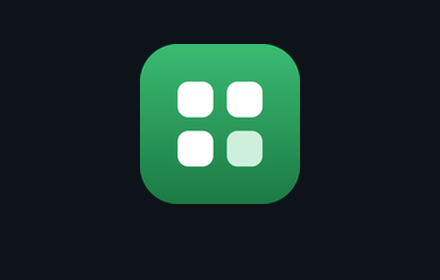
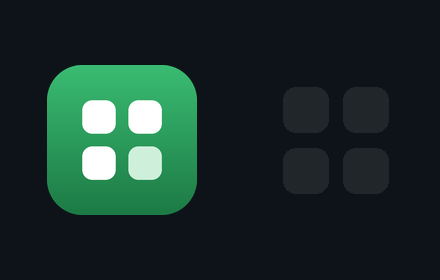
Add Edge store artwork and a Partner Center walkthrough
Edge becomes the primary store: registration is free, while the Chrome Web
Store's one-time fee runs through a payment system with no Georgia option,
so that account cannot be created at all right now.

make_icons.py now also emits the 300x300 extension logo Edge requires per
language and a 1400x560 large promotional tile, and the 440x280 tile is
redrawn to match. store/LISTING.md gains the exact Partner Center field
values — availability, properties, the privacy declarations, the per-language
listing fields, search terms and the certification notes — and README puts
Edge first, with a note on why the Chrome Web Store is blocked.

Changed region(s): [[0.0886, 0.1429, 0.6795, 0.7714]]

diff --git a/tools/make_icons.py b/tools/make_icons.py
@@ -1,7 +1,13 @@
-"""Generate the extension icons (16/32/48/128 px) into icons/.
+"""Generate the extension icons into icons/ and the store artwork into store/.
 
 Usage:  python tools/make_icons.py
 Requires Pillow.  Re-run only when the mark changes; the PNGs are committed.
+
+Store artwork sizes follow the Microsoft Edge Add-ons requirements, which are a
+superset of what the Chrome Web Store asks for:
+  logo-300x300.png     extension logo, 1:1, required (min 128x128)
+  promo-440x280.png    small promotional tile, optional
+  promo-1400x560.png   large promotional tile, optional
 """
 from __future__ import annotations
 
@@ -56,6 +62,37 @@ def make(size: int) -> Image.Image:
     return base.resize((size, size), Image.LANCZOS)
 
 
+BACKDROP = (14, 19, 25, 255)
+
+
+def promo_tile(width: int, height: int, mark_px: int) -> Image.Image:
+    """Backdrop + centred mark, with a faint echo of the popup's link grid."""
+    tile = Image.new("RGBA", (width, height), BACKDROP)
+
+    ghost = Image.new("RGBA", (width, height), (0, 0, 0, 0))
+    draw = ImageDraw.Draw(ghost)
+    cell = mark_px * 0.30
+    gap = cell * 0.34
+    cols, rows = 3, 2
+    block_w = cols * cell + (cols - 1) * gap
+    block_h = rows * cell + (rows - 1) * gap
+    x0 = width / 2 + mark_px * 0.42
+    y0 = (height - block_h) / 2
+    for r in range(rows):
+        for c in range(cols):
+            x = x0 + c * (cell + gap)
+            y = y0 + r * (cell + gap)
+            if x + cell > width - cell * 0.4:
+                continue
+            draw.rounded_rectangle((x, y, x + cell, y + cell), cell * 0.28,
+                                   fill=(255, 255, 255, 20))
+    tile.alpha_composite(ghost)
+
+    mark = make(mark_px)
+    tile.alpha_composite(mark, (int(width / 2 - mark_px * 1.15), int((height - mark_px) / 2)))
+    return tile.convert("RGB")
+
+
 def main() -> None:
     OUT.mkdir(parents=True, exist_ok=True)
     for size in SIZES:
@@ -63,14 +100,18 @@ def main() -> None:
         make(size).save(path, "PNG", optimize=True)
         print(f"wrote {path.relative_to(ROOT)}")
 
-    # A 440x280 small promo tile for the Chrome Web Store listing.
-    promo = Image.new("RGBA", (440, 280), (14, 19, 25, 255))
-    mark = make(128).resize((160, 160), Image.LANCZOS)
-    promo.alpha_composite(mark, (140, 44))
     store = ROOT / "store"
     store.mkdir(parents=True, exist_ok=True)
-    promo.convert("RGB").save(store / "promo-440x280.png", "PNG", optimize=True)
-    print(f"wrote {(store / 'promo-440x280.png').relative_to(ROOT)}")
+
+    make(300).save(store / "logo-300x300.png", "PNG", optimize=True)
+    print(f"wrote {(store / 'logo-300x300.png').relative_to(ROOT)}")
+
+    for name, (w, h, mark_px) in {
+        "promo-440x280.png": (440, 280, 150),
+        "promo-1400x560.png": (1400, 560, 340),
+    }.items():
+        promo_tile(w, h, mark_px).save(store / name, "PNG", optimize=True)
+        print(f"wrote {(store / name).relative_to(ROOT)}")
 
 
 if __name__ == "__main__":

diff --git a/store/LISTING.md b/store/LISTING.md
@@ -1,7 +1,11 @@
 # Store listing copy
 
-Paste-ready text for the Chrome Web Store, Microsoft Edge Add-ons and Opera
-add-ons dashboards. Keep it in sync with `_locales/*/messages.json`.
+Paste-ready text for the Microsoft Edge Add-ons, Opera and Chrome Web Store
+dashboards. Keep it in sync with `_locales/*/messages.json`.
+
+**Edge is the primary store**: registration is free, while the Chrome Web Store
+charges a one-time US$5 fee through a payment system that has no Georgia option.
+Fill in the Edge section below first.
 
 ---
 
@@ -95,6 +99,9 @@ Primary: English. Also list Georgian (ka).
 
 ## Privacy practices (Chrome Web Store form)
 
+Nothing to test behind a login — the extension has no backend and no accounts.
+
+
 - **Single purpose**: "Provides a popup of user-configured bookmarks-style
   buttons for opening the user's own websites and GitHub repositories."
 - **Note for review**: the extension ships no personal data of its own. The
@@ -109,15 +116,20 @@ Primary: English. Also list Georgian (ka).
 
 ## Assets
 
-| Asset | Size | File |
-|---|---|---|
-| Store icon | 128×128 | `icons/icon128.png` |
-| Small promo tile | 440×280 | `store/promo-440x280.png` |
-| Screenshot 1 | 1280×800 | popup, grid view, light theme |
-| Screenshot 2 | 1280×800 | popup, dark theme |
-| Screenshot 3 | 1280×800 | options page |
+All generated by `python tools/make_icons.py`, except the screenshots.
 
-Screenshots must be 1280×800 or 640×400 — at least one is required.
+| Asset | Size | File | Edge | Chrome |
+|---|---|---|---|---|
+| Extension logo | 300×300 | `store/logo-300x300.png` | required, per language | — |
+| Store icon | 128×128 | `icons/icon128.png` | from the package | required |
+| Small promo tile | 440×280 | `store/promo-440x280.png` | optional | optional |
+| Large promo tile | 1400×560 | `store/promo-1400x560.png` | optional | — |
+| Screenshot 1 | 1280×800 | popup, grid view, light theme | optional, max 6 | ≥1 required |
+| Screenshot 2 | 1280×800 | popup, dark theme | | |
+| Screenshot 3 | 1280×800 | options page | | |
+
+Screenshot sizes: Edge takes 1280×800 or 640×480; Chrome takes 1280×800 or
+640×400. Shoot at 1280×800 and both stores accept the same files.
 
 `dev/shots.html` lays the three shots out at exactly 1280×800 on a branded
 backdrop. To capture them:
@@ -130,6 +142,85 @@ backdrop. To capture them:
    `s=JSON.parse(localStorage['devshim:sync:state']); s.settings.theme='dark';
    localStorage['devshim:sync:state']=JSON.stringify(s); location.reload()`
 
-## Review notes
 
-Nothing to test behind a login. The extension has no backend and no accounts.
+---
+
+## Microsoft Edge Add-ons — Partner Center walkthrough
+
+Upload `dist/qgis-ge-launcher-<version>.zip` at
+<https://partner.microsoft.com/dashboard/microsoftedge>. Registration is free and
+needs a personal Microsoft account (a work or school account will not work).
+
+Because the manifest uses `__MSG_` placeholders with `_locales/en` and
+`_locales/ka`, Partner Center shows **two language rows**. Description and
+Extension logo are required for *each*; use the **Duplicate** link under the
+logo to copy it to the other language.
+
+### Availability
+
+| Field | Value |
+|---|---|
+| Visibility | Public |
+| Markets | All markets (the default) |
+
+### Properties
+
+| Field | Value |
+|---|---|
+| Category | Productivity |
+| Website | `https://github.com/GIS-GEORGIA/qgis-ge-launcher` |
+| Support contact | `https://github.com/GIS-GEORGIA/qgis-ge-launcher/issues` |
+| Mature content | unchecked |
+
+### Privacy
+
+| Field | Value |
+|---|---|
+| Single Purpose Description | Shows a popup of buttons that open websites the user has configured. The list is stored locally and edited on the extension's own options page. |
+| Permission justification — `storage` | Stores the user's own list of links and their interface preferences (language, theme, layout) so they persist between sessions. No other data is stored. |
+| Are you using remote code? | **No, I am not using remote code.** Every script is bundled in the package. |
+| Data usage — what do you collect? | Tick **nothing**. The extension makes no network request. |
+| Data usage — certifications | Tick all of them; each one holds. |
+| Privacy Policy URL | `https://github.com/GIS-GEORGIA/qgis-ge-launcher/blob/main/PRIVACY.md` |
+
+### Store listing, per language
+
+| Field | Where it comes from |
+|---|---|
+| Extension name | read-only, from `manifest.json` |
+| Short description | read-only, from the manifest `description` (117 chars EN / 126 KA) |
+| Description | the **Detailed description** text above — 1207 chars EN, 1263 KA, both over the 250-character minimum |
+| Extension logo | `store/logo-300x300.png` |
+| Small / large promo tile | `store/promo-440x280.png`, `store/promo-1400x560.png` |
+| Screenshots | up to 6, at 1280×800 |
+
+Search terms (max 7 entries, 30 characters each, 21 words total):
+
+```
+qgis, gis, quick links, bookmarks, launcher, georgia, ქართული
+```
+
+Do **not** use the **Generate with AI** button for the description — it would
+overwrite the wording above, which is already checked against the manifest.
+
+### Notes for certification
+
+```
+No login, no backend, no accounts — nothing to set up before testing.
+
+The popup opens from the toolbar icon (or Alt+Shift+G) and shows three buttons
+that open public QGIS GEORGIA websites. Click one to open it in a new tab.
+Type in the search box to filter, press Enter to open the first match, or
+Alt+1..3 to open one directly. The star on a button pins it to the top.
+
+The gear opens settings (theme, grid/list view, where links open) and
+"Edit links" opens the options page, where links and groups can be added,
+renamed, recoloured, reordered, removed, and exported or imported as JSON.
+
+"storage" is the only permission and the extension makes no network request of
+any kind — it draws coloured letter tiles rather than fetching favicons.
+
+Source: https://github.com/GIS-GEORGIA/qgis-ge-launcher
+```
+
+Certification takes up to seven business days.

diff --git a/README.md b/README.md
@@ -115,11 +115,19 @@ python tools/build.py --check
 1. აწიეთ `version` `manifest.json`-ში.
 2. `git tag v1.0.1 && git push --tags` — GitHub Actions ააწყობს ZIP-ს და მიაბამს release-ს.
 3. ატვირთეთ ZIP:
-   - [Chrome Web Store Developer Dashboard](https://chrome.google.com/webstore/devconsole) (ერთჯერადი $5 რეგისტრაცია)
-   - [Microsoft Edge Add-ons](https://partner.microsoft.com/dashboard/microsoftedge) (უფასო)
-   - [Opera add-ons](https://addons.opera.com/developer/) (უფასო)
+   - [Microsoft Edge Add-ons](https://partner.microsoft.com/dashboard/microsoftedge) — უფასო, **მთავარი მაღაზია**
+   - [Opera add-ons](https://addons.opera.com/developer/) — უფასო
+   - [Chrome Web Store](https://chrome.google.com/webstore/devconsole) — ერთჯერადი $5
 
-Brave, Vivaldi და Arc იყენებენ Chrome Web Store-ს, ცალკე ატვირთვა არ სჭირდებათ.
+`store/LISTING.md`-ში გამზადებულია Partner Center-ის ყველა ველი.
+
+> **Chrome Web Store და საქართველო.** $5-ის გადახდა Google-ის სავაჭრო სისტემაზე
+> გადის, რომლის ქვეყნების სიაში საქართველო არ არის, ამიტომ რეგისტრაცია ვერ
+> სრულდება. Chrome-ის გუნდი
+> [აღიარებს შეზღუდვას](https://groups.google.com/a/chromium.org/g/chromium-extensions/c/FWK5U6_EJr8)
+> და ამბობს, რომ რეგიონებს აფართოებს, თარიღის გარეშე. მანამდე Chrome-ის,
+> Brave-ის, Vivaldi-ის და Arc-ის მომხმარებლებისთვის რჩება GitHub Releases-იდან
+> ჩამოტვირთვა და „Load unpacked“.
 
 ## ლიცენზია · License
 
